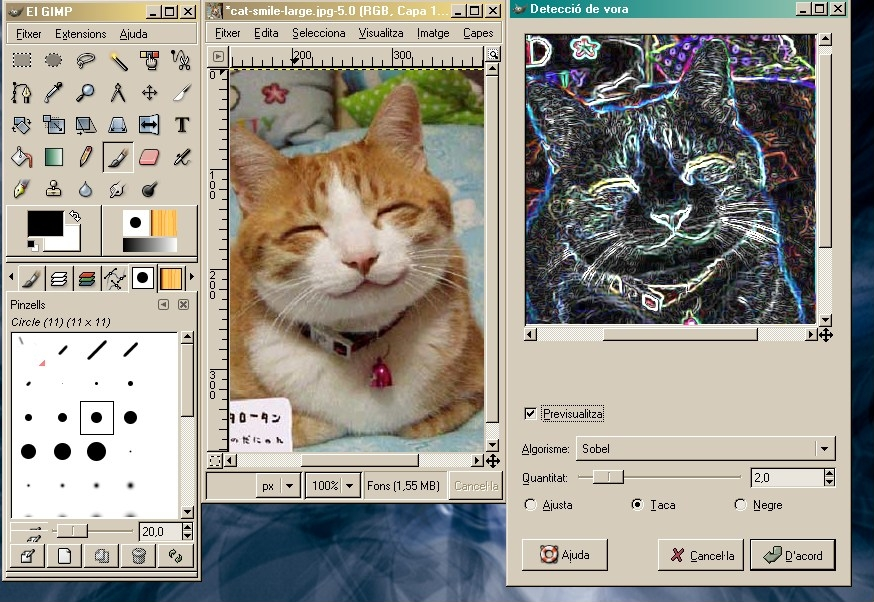
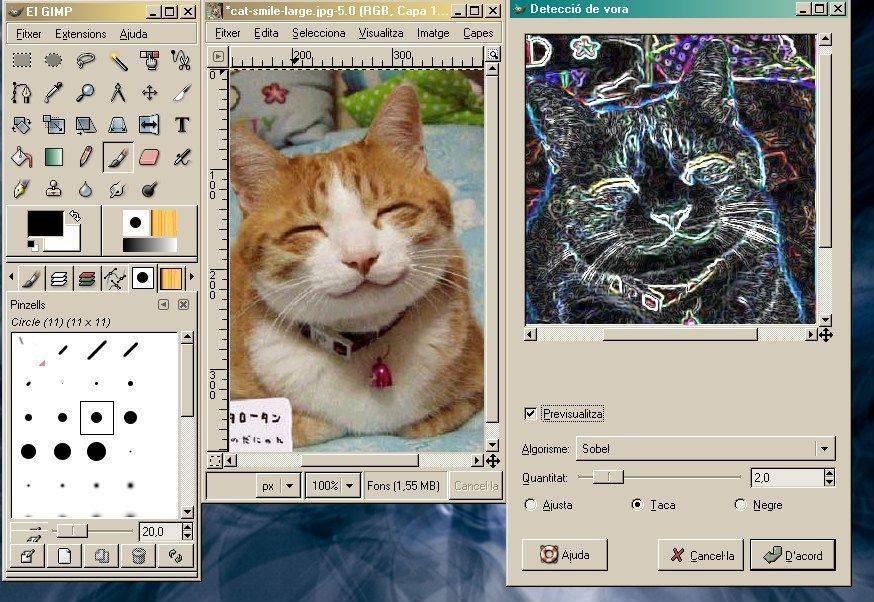
Reducing file size dramatically (still some margin though)

diff --git a/recomana.html b/recomana.html
@@ -1,3 +1,4 @@
+<!DOCTYPE HTML PUBLIC "-//W3C//DTD HTML 4.01 Transitional//EN" "http://www.w3.org/TR/html4/loose.dtd">
 <html>
 <head>
 <meta http-equiv="Content-Type" content="text/html; charset=UTF-8" />
@@ -131,7 +132,7 @@ $(document).ready(function () {
 <body>
 <div id="window">
 <div style="float:right;padding:5px;color:gray;cursor:pointer;" onclick="$('#window').fadeOut();recomana.interval = setInterval(recomana.func,5000);">x</div>
-<div id="wcontents"></div>
+<div id="wcontents" style="height:100%;"></div>
 </div>
 <div id="recomanats">
 <div class="section" style="display:block;">
@@ -155,7 +156,7 @@ El GIMP és un programa de distribució lliure, extremadament potent i versàtil
 
 <div class="images">
 <img src="gimp1.jpg">
-<img src="gimp2.png">
+<img src="gimp2.jpg">
 </div>
 </div>
 </div>
